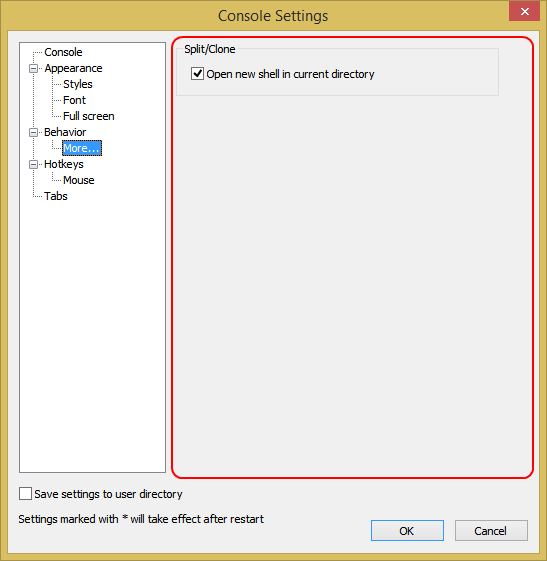
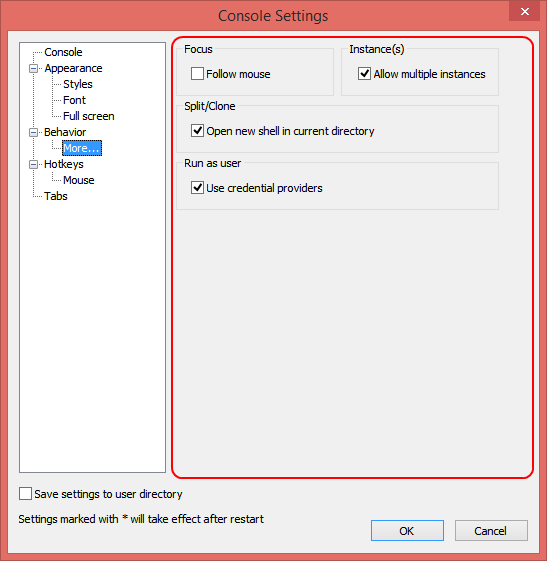
#115 Allow disabling RTF in settings

Changed region(s): [[0.0, 0.0, 1.0, 1.0], [0.3419, 0.1818, 0.6837, 0.2424], [0.3419, 0.2727, 0.5905, 0.3636]]

diff --git a/help/html/settings_behavior_more.html b/help/html/settings_behavior_more.html
@@ -14,6 +14,25 @@
 	<img src="../images/settings_behavior_more.png" />
 	</p>
 
+	<h2>Focus</h2>
+
+	<p class="block-row-name">Follow mouse</p>
+	<p class="block-row-description">
+		If checked, the view, where mouse is hover, has the focus.
+	</p>
+
+	<br />
+
+	<h2>Instance(s)</h2>
+
+	<p class="block-row-name">Allow multiple instances</p>
+	<p class="block-row-description">
+		If checked, every call to ConsoleZ will correspond to a new instance.<br />
+		Otherwise only one instance of ConsoleZ will exist and the call to ConsoleZ will correspond to a new tab.
+	</p>
+
+	<br />
+
 	<h2>Split/Clone</h2>
 
 	<p class="block-row-name">Open new shell in current directory</p>
@@ -22,6 +41,14 @@
 		Split the current view horizontally<br />
 		Split the current view vertically<br />
 		Clone the current view in a new tab
+	</p>
+	<br />
+
+	<h2>Run as user</h2>
+
+	<p class="block-row-name">Use credential providers</p>
+	<p class="block-row-description">
+		If checked, credential providers are used (allowing integration of additional authentication mechanisms such as biometrics and smart cards).
 	</p>
 	<br />
 

diff --git a/help/html/settings_behavior.html b/help/html/settings_behavior.html
@@ -60,6 +60,12 @@
 	</p>
 	<br />
 
+	<p class="block-row-name">Rich Text Format</p>
+	<p class="block-row-description">
+		If checked, copy to clipboard as RTF.
+	</p>
+	<br />
+
 	<h2>Copy new line character</h2>
 
 	<p class="block-row-name">Windows (CR+LF)</p>
@@ -139,22 +145,7 @@
 	</p>
 	<br />
 
-	<h2>Focus</h2>
 
-	<p class="block-row-name">Follow mouse</p>
-	<p class="block-row-description">
-		If checked, the view, where mouse is hover, has the focus.
-	</p>
-
-	<h2>Instance(s)</h2>
-
-	<p class="block-row-name">Allow multiple instances</p>
-	<p class="block-row-description">
-		If checked every call to ConsoleZ will correspond to a new instance.<br />
-		Otherwise only one instance of ConsoleZ will exist and the call to ConsoleZ will correspond to a new tab.
-	</p>
-
-	<br />
 </body>
 
 </html>

diff --git a/Console/SettingsHandler.cpp b/Console/SettingsHandler.cpp
@@ -871,6 +871,7 @@ CopyPasteSettings::CopyPasteSettings()
 , bSensitiveCopy(true)
 , bNoWrap(false)
 , bTrimSpaces(false)
+, bRTF(true)
 , copyNewlineChar(newlineCRLF)
 , bIncludeLeftDelimiter(false)
 , bIncludeRightDelimiter(false)
@@ -899,6 +900,7 @@ bool CopyPasteSettings::Load(const CComPtr<IXMLDOMElement>& pSettingsRoot)
 	XmlHelper::GetAttribute(pCopyPasteElement, CComBSTR(L"no_wrap"), bNoWrap, false);
 	XmlHelper::GetAttribute(pCopyPasteElement, CComBSTR(L"eol_spaces"), dwEOLSpaces, 1);
 	XmlHelper::GetAttribute(pCopyPasteElement, CComBSTR(L"trim_spaces"), bTrimSpaces, false);
+	XmlHelper::GetAttribute(pCopyPasteElement, CComBSTR(L"rtf"), bRTF, true);
 	XmlHelper::GetAttribute(pCopyPasteElement, CComBSTR(L"copy_newline_char"), nNewlineChar, 0);
 	XmlHelper::GetAttribute(pCopyPasteElement, CComBSTR(L"include_left_delimiter"), bIncludeLeftDelimiter, false);
 	XmlHelper::GetAttribute(pCopyPasteElement, CComBSTR(L"include_right_delimiter"), bIncludeRightDelimiter, false);
@@ -927,6 +929,7 @@ bool CopyPasteSettings::Save(const CComPtr<IXMLDOMElement>& pSettingsRoot)
 	XmlHelper::SetAttribute(pCopyPasteElement, CComBSTR(L"no_wrap"), bNoWrap);
 	XmlHelper::SetAttribute(pCopyPasteElement, CComBSTR(L"eol_spaces"), dwEOLSpaces);
 	XmlHelper::SetAttribute(pCopyPasteElement, CComBSTR(L"trim_spaces"), bTrimSpaces);
+	XmlHelper::SetAttribute(pCopyPasteElement, CComBSTR(L"rtf"), bRTF);
 	XmlHelper::SetAttribute(pCopyPasteElement, CComBSTR(L"copy_newline_char"), static_cast<int>(copyNewlineChar));
 
 	XmlHelper::SetAttribute(pCopyPasteElement, CComBSTR(L"include_left_delimiter"), bIncludeLeftDelimiter);
@@ -949,6 +952,7 @@ CopyPasteSettings& CopyPasteSettings::operator=(const CopyPasteSettings& other)
 	bSensitiveCopy	= other.bSensitiveCopy;
 	bNoWrap			= other.bNoWrap;
 	bTrimSpaces		= other.bTrimSpaces;
+	bRTF		= other.bRTF;
 	copyNewlineChar	= other.copyNewlineChar;
 	bIncludeLeftDelimiter	= other.bIncludeLeftDelimiter;
 	bIncludeRightDelimiter	= other.bIncludeRightDelimiter;
@@ -1415,8 +1419,6 @@ bool BehaviorSettings::Load(const CComPtr<IXMLDOMElement>& pSettingsRoot)
 	scrollSettings.Load(pSettingsRoot);
 	tabHighlightSettings.Load(pSettingsRoot);
 	closeSettings.Load(pSettingsRoot);
-	focusSettings.Load(pSettingsRoot);
-	instanceSettings.Load(pSettingsRoot);
 
 	return true;
 }
@@ -1432,8 +1434,6 @@ bool BehaviorSettings::Save(const CComPtr<IXMLDOMElement>& pSettingsRoot)
 	scrollSettings.Save(pSettingsRoot);
 	tabHighlightSettings.Save(pSettingsRoot);
 	closeSettings.Save(pSettingsRoot);
-	focusSettings.Save(pSettingsRoot);
-	instanceSettings.Save(pSettingsRoot);
 
 	return true;
 }
@@ -1449,8 +1449,6 @@ BehaviorSettings& BehaviorSettings::operator=(const BehaviorSettings& other)
 	scrollSettings       = other.scrollSettings;
 	tabHighlightSettings = other.tabHighlightSettings;
 	closeSettings        = other.closeSettings;
-	focusSettings        = other.focusSettings;
-	instanceSettings     = other.instanceSettings;
 
 	return *this;
 }
@@ -1476,6 +1474,8 @@ BehaviorSettings2::BehaviorSettings2()
 
 bool BehaviorSettings2::Load(const CComPtr<IXMLDOMElement>& pSettingsRoot)
 {
+	focusSettings.Load(pSettingsRoot);
+	instanceSettings.Load(pSettingsRoot);
 	cloneSettings.Load(pSettingsRoot);
 	runAsUserSettings.Load(pSettingsRoot);
 
@@ -1489,6 +1489,8 @@ bool BehaviorSettings2::Load(const CComPtr<IXMLDOMElement>& pSettingsRoot)
 
 bool BehaviorSettings2::Save(const CComPtr<IXMLDOMElement>& pSettingsRoot)
 {
+	focusSettings.Save(pSettingsRoot);
+	instanceSettings.Save(pSettingsRoot);
 	cloneSettings.Save(pSettingsRoot);
 	runAsUserSettings.Save(pSettingsRoot);
 
@@ -1502,6 +1504,8 @@ bool BehaviorSettings2::Save(const CComPtr<IXMLDOMElement>& pSettingsRoot)
 
 BehaviorSettings2& BehaviorSettings2::operator=(const BehaviorSettings2& other)
 {
+	focusSettings        = other.focusSettings;
+	instanceSettings     = other.instanceSettings;
 	cloneSettings        = other.cloneSettings;
 	runAsUserSettings    = other.runAsUserSettings;
 

diff --git a/Console/DlgSettingsBehavior.h b/Console/DlgSettingsBehavior.h
@@ -27,6 +27,7 @@ class DlgSettingsBehavior
 			DDX_CHECK(IDC_CHECK_NO_WRAP, m_behaviorSettings.copyPasteSettings.bNoWrap)
 			DDX_UINT(IDC_EOL_SPACES, m_behaviorSettings.copyPasteSettings.dwEOLSpaces)
 			DDX_CHECK(IDC_CHECK_TRIM_SPACES, m_behaviorSettings.copyPasteSettings.bTrimSpaces)
+			DDX_CHECK(IDC_CHECK_RTF, m_behaviorSettings.copyPasteSettings.bRTF)
 			DDX_RADIO(IDC_RADIO_COPY_NEWLINE_CHAR, m_nCopyNewlineChar)
 			DDX_RADIO(IDC_PAGE_SCROLL, m_nScrollPageType)
 			DDX_UINT(IDC_SCROLL_PAGE_ROWS, m_behaviorSettings.scrollSettings.dwPageScrollRows)
@@ -40,10 +41,6 @@ class DlgSettingsBehavior
 			DDX_TEXT(IDC_RIGHT_DELIMITERS, m_strRightDelimiters)
 			DDX_CHECK(IDC_CHECK_CLOSING_LAST_TAB, m_behaviorSettings.closeSettings.bAllowClosingLastView)
 			DDX_CHECK(IDC_CHECK_CONFIRM_CLOSE_MULTI, m_behaviorSettings.closeSettings.bConfirmClosingMultipleViews)
-
-			DDX_CHECK(IDC_CHECK_FOCUS_FOLLOW_MOUSE, m_behaviorSettings.focusSettings.bFollowMouse)
-			DDX_CHECK(IDC_CHECK_MULTI_INSTANCES, m_behaviorSettings.instanceSettings.bAllowMultipleInstances)
-
 		END_DDX_MAP()
 
 		BEGIN_MSG_MAP(DlgSettingsBehavior)

diff --git a/Console/SettingsHandler.h b/Console/SettingsHandler.h
@@ -322,7 +322,7 @@ struct CopyPasteSettings : public SettingsBase
 	bool			bSensitiveCopy;
 	bool			bNoWrap;
 	bool			bTrimSpaces;
-
+	bool			bRTF;
 	bool			bIncludeLeftDelimiter;
 	bool			bIncludeRightDelimiter;
 	std::wstring strLeftDelimiters;
@@ -471,8 +471,6 @@ struct BehaviorSettings : public SettingsBase
 	ScrollSettings       scrollSettings;
 	TabHighlightSettings tabHighlightSettings;
 	CloseSettings        closeSettings;
-	FocusSettings        focusSettings;
-	InstanceSettings     instanceSettings;
 };
 
 //////////////////////////////////////////////////////////////////////////////
@@ -489,6 +487,8 @@ struct BehaviorSettings2 : public SettingsBase
 
 	BehaviorSettings2& operator=(const BehaviorSettings2& other);
 
+	FocusSettings        focusSettings;
+	InstanceSettings     instanceSettings;
 	CloneSettings        cloneSettings;
 	RunAsUserSettings    runAsUserSettings;
 };

diff --git a/Console/DlgSettingsBehavior2.h b/Console/DlgSettingsBehavior2.h
@@ -21,8 +21,10 @@ class DlgSettingsBehavior2
 		DlgSettingsBehavior2(CComPtr<IXMLDOMElement>& pOptionsRoot);
 
 		BEGIN_DDX_MAP(DlgSettingsBehavior2)
-			DDX_CHECK(IDC_CHECK_OPEN_CURRENT_DIR, m_behaviorSettings2.cloneSettings.bUseCurrentDirectory)
-			DDX_CHECK(IDC_CHECK_USE_CREDPROV,     m_behaviorSettings2.runAsUserSettings.bUseCredentialProviders)
+			DDX_CHECK(IDC_CHECK_FOCUS_FOLLOW_MOUSE, m_behaviorSettings2.focusSettings.bFollowMouse)
+			DDX_CHECK(IDC_CHECK_MULTI_INSTANCES,    m_behaviorSettings2.instanceSettings.bAllowMultipleInstances)
+			DDX_CHECK(IDC_CHECK_OPEN_CURRENT_DIR,   m_behaviorSettings2.cloneSettings.bUseCurrentDirectory)
+			DDX_CHECK(IDC_CHECK_USE_CREDPROV,       m_behaviorSettings2.runAsUserSettings.bUseCredentialProviders)
 		END_DDX_MAP()
 
 		BEGIN_MSG_MAP(DlgSettingsBehavior2)

diff --git a/Console/SelectionHandler.cpp b/Console/SelectionHandler.cpp
@@ -337,6 +337,7 @@ void SelectionHandler::CopySelection()
 		m_consoleCopyInfo->bNoWrap         = g_settingsHandler->GetBehaviorSettings().copyPasteSettings.bNoWrap;
 		m_consoleCopyInfo->dwEOLSpaces     = g_settingsHandler->GetBehaviorSettings().copyPasteSettings.dwEOLSpaces;
 		m_consoleCopyInfo->bTrimSpaces     = g_settingsHandler->GetBehaviorSettings().copyPasteSettings.bTrimSpaces;
+		m_consoleCopyInfo->bRTF            = g_settingsHandler->GetBehaviorSettings().copyPasteSettings.bRTF;
 		m_consoleCopyInfo->copyNewlineChar = g_settingsHandler->GetBehaviorSettings().copyPasteSettings.copyNewlineChar;
 		m_consoleCopyInfo->selectionType   = m_selectionType;
     _snprintf_s(

diff --git a/ConsoleHook/ConsoleHandler.cpp b/ConsoleHook/ConsoleHandler.cpp
@@ -1002,9 +1002,10 @@ void ConsoleHandler::CopyConsoleText()
 			0));
 
 	std::unique_ptr<ClipboardData> clipboardDataPtr[2];
-	size_t clipboardDataCount = 2;
-	clipboardDataPtr[0].reset(new ClipboardDataUnicode());
-	clipboardDataPtr[1].reset(new ClipboardDataRtf(m_consoleCopyInfo.Get()));
+	size_t clipboardDataCount = 0;
+	clipboardDataPtr[clipboardDataCount++].reset(new ClipboardDataUnicode());
+	if( m_consoleCopyInfo->bRTF )
+		clipboardDataPtr[clipboardDataCount++].reset(new ClipboardDataRtf(m_consoleCopyInfo.Get()));
 
 	if( m_consoleCopyInfo->selectionType == seltypeColumn )
 		CopyConsoleTextColumn(hStdOut.get(), clipboardDataPtr, clipboardDataCount);

diff --git a/Console/ConsoleView.cpp b/Console/ConsoleView.cpp
@@ -867,7 +867,7 @@ LRESULT ConsoleView::OnMouseMove(UINT uMsg, WPARAM wParam, LPARAM lParam, BOOL& 
 			if( ::TrackMouseEvent(&params) )
 			{
 				TRACE(L"onhover %p\n", m_hWnd);
-				if( g_settingsHandler->GetBehaviorSettings().focusSettings.bFollowMouse )
+				if( g_settingsHandler->GetBehaviorSettings2().focusSettings.bFollowMouse )
 					m_mainFrame.SetActiveConsole(m_hwndTabView, m_hWnd);
 				m_bMouseTracking = true;
 			}

diff --git a/shared/Structures.h b/shared/Structures.h
@@ -118,6 +118,7 @@ struct ConsoleCopy
 	, bNoWrap(false)
 	, dwEOLSpaces(1)
 	, bTrimSpaces(false)
+	, bRTF(true)
 	, copyNewlineChar(newlineCRLF)
 	, selectionType(seltypeText)
 	, bBold(false)
@@ -148,6 +149,7 @@ struct ConsoleCopy
 	COORD	coordEnd;
 	bool	bNoWrap;
 	bool	bTrimSpaces;
+	bool  bRTF;
 	bool  bBold;
 	bool  bItalic;
 	CopyNewlineChar	copyNewlineChar;

diff --git a/Console/resource.h b/Console/resource.h
@@ -142,6 +142,7 @@
 #define IDC_CHECK_FLAT_SCROLLBARS       1095
 #define IDC_CHECK_STYLE_QUAKE           1096
 #define IDC_CHECK_USE_JUMPLIST          1097
+#define IDC_CHECK_RTF                   1098
 #define IDC_TRIM_TAB_TITLES             1101
 #define IDC_TRIM_TAB_TITLES_RIGHT       1102
 #define IDC_SNAP                        1104

diff --git a/Console/Console.cpp b/Console/Console.cpp
@@ -165,7 +165,7 @@ int Run(LPTSTR lpstrCmdLine = NULL, int nCmdShow = SW_SHOWDEFAULT)
 
 		if (!bReuse)
 		{
-			bReuse = !g_settingsHandler->GetBehaviorSettings().instanceSettings.bAllowMultipleInstances;
+			bReuse = !g_settingsHandler->GetBehaviorSettings2().instanceSettings.bAllowMultipleInstances;
 		}
 
 		if (!strSyncName.empty())
